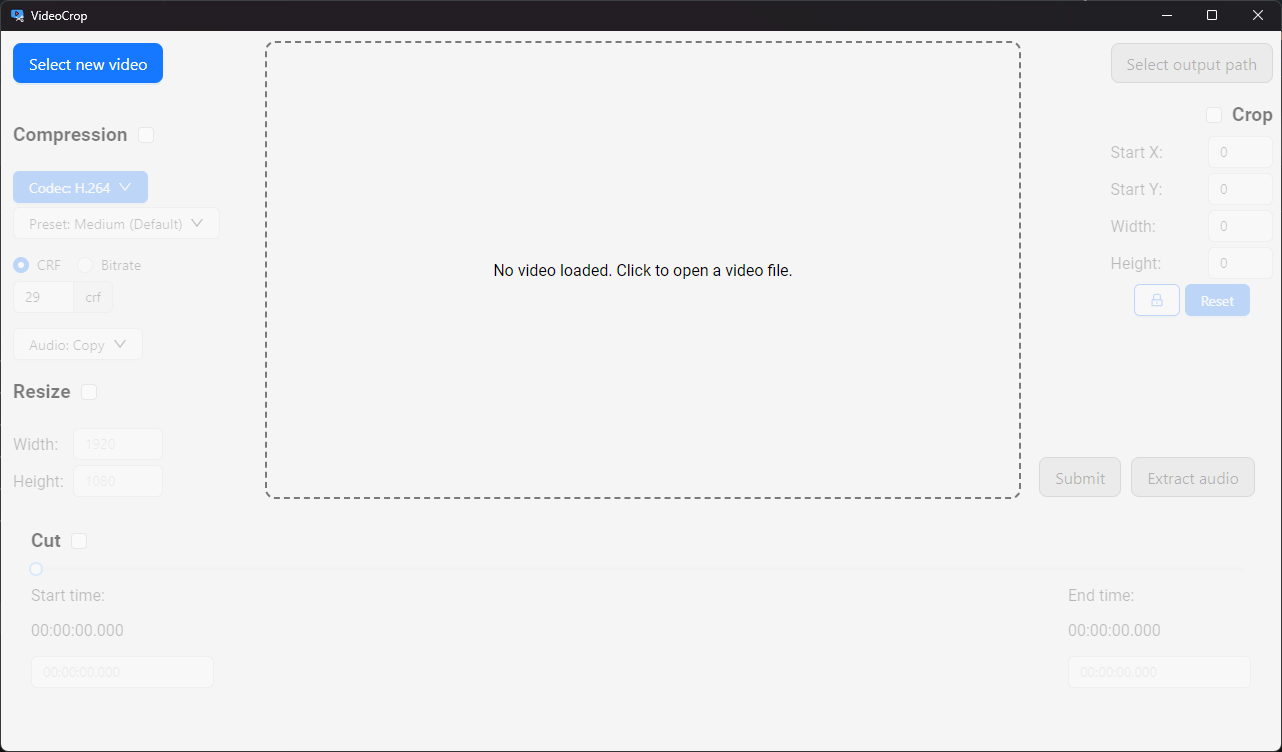
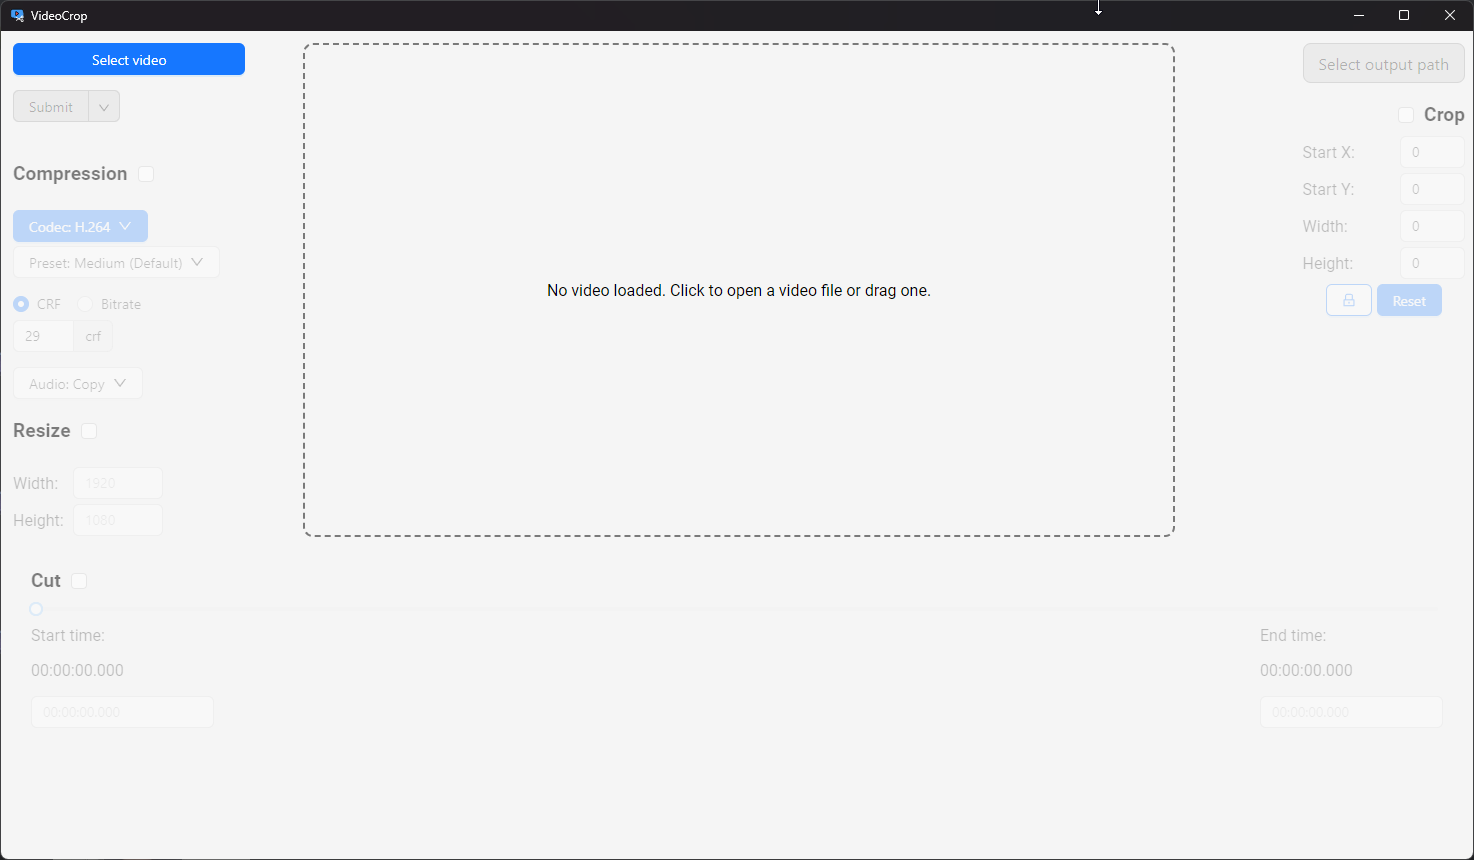
Squashed commit of the following:
commit aa211e035e66becc86f16a9393fbe4c1d225f195
Author: Azmek <68204002+Azmekk@users.noreply.github.com>
Date:   Mon Jan 6 03:07:28 2025 +0200

    Bugfixes and option to export video only

commit fda6e5756200cf527e0d9cf68af5ff19bbe108c8
Merge: 282013c d8df016
Author: Azmek <68204002+Azmekk@users.noreply.github.com>
Date:   Sun Jan 5 05:03:13 2025 +0200

    Merge branch 'master' into release

commit 282013c9700b29a82d5b64c78f4d733eda6c684e
Author: Azmek <68204002+Azmekk@users.noreply.github.com>
Date:   Sun Jan 5 03:48:49 2025 +0200

    Test versioning change for updates

diff --git a/src/App.tsx b/src/App.tsx
@@ -1,7 +1,7 @@
 import { useEffect, useState } from "react";
 import { invoke } from "@tauri-apps/api/core";
 import VideoView from "./components/VideoView";
-import { Button, Modal, Progress } from "antd";
+import { Button, Dropdown, type MenuProps, Modal, Progress } from "antd";
 import CutSegment from "./components/CutSegment";
 import CropSegment from "./components/CropSegment";
 import type { DependenciesSetUpInfo, VideoCropPoints, VideoEditOptions, VideoEditProgress, VideoInfo } from "./Logic/Interfaces";
@@ -15,6 +15,7 @@ import { platform } from "@tauri-apps/plugin-os";
 import { event } from "@tauri-apps/api";
 import type { UnlistenFn } from "@tauri-apps/api/event";
 import { check } from "@tauri-apps/plugin-updater";
+import { DownOutlined } from "@ant-design/icons";
 
 function App() {
   const [ffmpegExists, setFfmpegExists] = useState(true);
@@ -26,8 +27,8 @@ function App() {
   const [updatingApp, setUpdatingApp] = useState(false);
   const [draggedVideoPath, setDraggedVideoPath] = useState("");
 
-  const [processingVideo, setProcessingVideo] = useState(false);
-  const [processingAudio, setProcessingAudio] = useState(false);
+  const [selectedSubmitDropdownType, setSelectedSubmitDropdownType] = useState("default");
+  const [processingSubmission, setProcessingSubmission] = useState(false);
   const [processingProgress, setProcessingProgress] = useState(0);
 
   const [cropPointPositions, setCropPointPositions] = useState<VideoCropPoints>(initiateVideoCropPoints());
@@ -118,10 +119,18 @@ function App() {
     }
   }
 
-  async function submitVideo() {
-    await invoke("submit_video_for_editing", { options: videoEditOptions });
+  async function submitForProcessing() {
+    if (selectedSubmitDropdownType === "audio") {
+      await submitAudioOnly();
+    } else {
+      await submitVideo();
+    }
+  }
 
-    setProcessingVideo(true);
+  async function submitVideo() {
+    await invoke("submit_video_for_editing", { options: videoEditOptions, processAudio: selectedSubmitDropdownType !== "video" });
+
+    setProcessingSubmission(true);
     setProcessingProgress(0);
 
     while (true) {
@@ -129,7 +138,7 @@ function App() {
       const newVideoInfo = await invoke<VideoEditProgress>("get_video_progress_info");
 
       if (newVideoInfo.last_error) {
-        setProcessingVideo(false);
+        setProcessingSubmission(false);
         setProcessingProgress(0);
 
         alert(`Something went wrong: ${newVideoInfo.last_error}`);
@@ -144,12 +153,12 @@ function App() {
         setProcessingProgress(100);
         await new Promise((resolve) => setTimeout(resolve, 300));
 
-        setProcessingVideo(false);
+        setProcessingSubmission(false);
         setProcessingProgress(0);
       }
 
       if (!newVideoInfo.working) {
-        setProcessingVideo(false);
+        setProcessingSubmission(false);
         setProcessingProgress(0);
         break;
       }
@@ -158,10 +167,10 @@ function App() {
     }
   }
 
-  async function submitAudio() {
+  async function submitAudioOnly() {
     await invoke("submit_audio_extraction", { options: videoEditOptions });
 
-    setProcessingAudio(true);
+    setProcessingSubmission(true);
     setProcessingProgress(0);
 
     while (true) {
@@ -170,7 +179,7 @@ function App() {
       const newVideoInfo = await invoke<VideoEditProgress>("get_video_progress_info");
 
       if (newVideoInfo.last_error) {
-        setProcessingAudio(false);
+        setProcessingSubmission(false);
         setProcessingProgress(0);
 
         alert(`Something went wrong: ${newVideoInfo.last_error}`);
@@ -185,12 +194,12 @@ function App() {
         setProcessingProgress(100);
         await new Promise((resolve) => setTimeout(resolve, 300));
 
-        setProcessingAudio(false);
+        setProcessingSubmission(false);
         setProcessingProgress(0);
       }
 
       if (!newVideoInfo.working) {
-        setProcessingAudio(false);
+        setProcessingSubmission(false);
         setProcessingProgress(0);
         break;
       }
@@ -234,7 +243,6 @@ function App() {
         });
 
         console.log("update installed");
-        relaunch();
       }
     } catch (error) {
       alert(`Error while updating: ${error}`);
@@ -321,6 +329,33 @@ function App() {
     };
   }, []);
 
+  const codecDropdownItems: { key: string; label: string }[] = [
+    {
+      key: "default",
+      label: "Submit",
+    },
+    {
+      key: "audio",
+      label: "Audio Only",
+    },
+    {
+      key: "video",
+      label: "Video Only",
+    },
+  ];
+
+  const handleProcessingDropdownMenuSelection: MenuProps["onClick"] = (e) => {
+    setSelectedSubmitDropdownType(e.key);
+  };
+
+  const selectedSubmitDropdownTypeProps: MenuProps = {
+    items: codecDropdownItems,
+    onClick: handleProcessingDropdownMenuSelection,
+    selectable: true,
+    selectedKeys: [selectedSubmitDropdownType],
+    defaultSelectedKeys: ["libx264"],
+  };
+
   return (
     <div>
       {!ffmpegExists && (
@@ -337,13 +372,16 @@ function App() {
       )}
       {draggedVideoPath !== "" && <div className="dragged-file-blur">{draggedVideoPath === "invalid" ? <div className="dragged-file-invalid">Invalid file</div> : draggedVideoPath}</div>}
       {interactingWithPaths && <div className="app-disabled">Please select path or cancel selection before continuing.</div>}
-      <main className={`app-container ${(processingVideo || processingAudio) && "disabled"} `}>
+      <main className={`app-container ${processingSubmission && "disabled"} `}>
         <div className="general-video-options-container">
           <div style={{ width: "20%", display: "flex", flexDirection: "column", gap: "20px" }}>
-            <div style={{ marginBottom: "20px" }}>
-              <Button size="large" onClick={getVideoPath} type="primary">
-                Select new video
+            <div style={{ display: "flex", flexDirection: "column", gap: "15px", marginBottom: "20px", maxWidth: "80%" }}>
+              <Button onClick={getVideoPath} type="primary">
+                {videoPathIsValid(videoEditOptions.input_video_path) ? "Change video" : "Select video"}
               </Button>
+              <Dropdown.Button onClick={submitForProcessing} icon={<DownOutlined />} disabled={videoEditOptions.output_video_path === ""} menu={selectedSubmitDropdownTypeProps}>
+                {codecDropdownItems.find((item) => item.key === selectedSubmitDropdownType)?.label}
+              </Dropdown.Button>
             </div>
             <CompressSegment
               onChange={(x, enabled) => setvideoEditOptions({ ...videoEditOptions, compression_enabled: enabled, compression_options: x })}
@@ -380,15 +418,6 @@ function App() {
                   onChange={(x) => setvideoEditOptions({ ...videoEditOptions, crop_options: x })}
                 />
               </div>
-
-              <div style={{ width: "100%", display: "flex", gap: "10px", alignItems: "end", justifyContent: "center", height: "100%" }}>
-                <Button loading={processingVideo} onClick={submitVideo} size="large" type="primary" disabled={videoEditOptions.output_video_path === ""}>
-                  Submit
-                </Button>
-                <Button loading={processingAudio} onClick={submitAudio} size="large" type="primary" disabled={videoEditOptions.output_video_path === ""}>
-                  Extract audio
-                </Button>
-              </div>
             </div>
           </CropPointsContext.Provider>
         </div>
@@ -401,7 +430,7 @@ function App() {
           />
         </div>
       </main>
-      <div style={{ padding: "5px" }}>{(processingVideo || processingAudio) && <Progress percent={processingProgress} status="active" />}</div>
+      <div style={{ padding: "5px" }}>{processingSubmission && <Progress percent={processingProgress} status="active" />}</div>
       <Modal
         title="Update available. Would you like to update?"
         open={updateAvailable}
@@ -419,6 +448,3 @@ function App() {
 }
 
 export default App;
-function relaunch() {
-  throw new Error("Function not implemented.");
-}

diff --git a/src/components/VideoView.tsx b/src/components/VideoView.tsx
@@ -27,13 +27,13 @@ function VideoView(props: VideoViewProps) {
     canvasLineDisplacementRef.left = 1;
     canvasLineDisplacementRef.right = 1;
     canvasLineDisplacementRef.top = 1;
-    redrawCanvas();
-  }, [resetCropPoints]);
+    updateCanvasSize();
+  }, [resetCropPoints, props.videoPath, props.videoInfo]);
 
   useEffect(() => {
     cropLinesUnlockedRef.current = cropLinesUnlocked;
-    redrawCanvas();
-  }, [cropLinesUnlocked]);
+    updateCanvasSize();
+  }, [cropLinesUnlocked, cropEnabled]);
 
   useEffect(() => {
     if (!clickedLineInfo.clickedLine && videoRef.current) {
@@ -156,6 +156,7 @@ function VideoView(props: VideoViewProps) {
     canvasLineDisplacementRef.left = 1;
     canvasLineDisplacementRef.right = 1;
     canvasLineDisplacementRef.top = 1;
+    updateCanvasSize();
 
     if (videoRef.current) {
       videoRef.current.addEventListener("loadedmetadata", updateCanvasSize);

diff --git a/src-tauri/src/utils/ffmpeg_utils.rs b/src-tauri/src/utils/ffmpeg_utils.rs
@@ -225,7 +225,7 @@ pub fn get_video_length_in_seconds(video_path: &str) -> Result<f64, String> {
     Ok(duration)
 }
 
-pub fn process_video(options: VideoEditOptions) {
+pub fn process_video(options: VideoEditOptions, process_audio: bool) {
     let mut progress = VIDEO_EDIT_PROGRESS.lock().unwrap();
     progress.working = true;
     progress.progress = 0.0;
@@ -263,19 +263,10 @@ pub fn process_video(options: VideoEditOptions) {
         ffmpeg_args.extend_from_slice(&["-vf".to_string(), crop_filter]);
     }
 
+    let compression_options = &options.compression_options;
     if options.compression_enabled {
-        let compression_options = &options.compression_options;
         ffmpeg_args.extend_from_slice(&["-c:v".to_string(), compression_options.codec.clone()]);
         ffmpeg_args.extend_from_slice(&["-preset".to_string(), compression_options.preset.clone()]);
-        ffmpeg_args
-            .extend_from_slice(&["-c:a".to_string(), compression_options.audio_codec.clone()]);
-
-        if compression_options.audio_codec != "copy" {
-            ffmpeg_args.extend_from_slice(&[
-                "-b:a".to_string(),
-                format!("{}k", compression_options.audio_bitrate),
-            ]);
-        }
 
         if compression_options.using_crf {
             ffmpeg_args
@@ -285,6 +276,24 @@ pub fn process_video(options: VideoEditOptions) {
                 "-b:v".to_string(),
                 format!("{}{}", compression_options.bitrate.to_string(), "k"),
             ]);
+        }
+    }
+
+    if !process_audio {
+        ffmpeg_args.extend_from_slice(&["-an".to_string()]);
+    } else if options.compression_enabled {
+        ffmpeg_args
+            .extend_from_slice(&["-c:a".to_string(), compression_options.audio_codec.clone()]);
+
+        if compression_options.audio_codec != "copy" {
+            if compression_options.audio_bitrate == 0 {
+                ffmpeg_args.extend_from_slice(&["-q:a".to_string(), "0".to_string()]);
+            } else {
+                ffmpeg_args.extend_from_slice(&[
+                    "-b:a".to_string(),
+                    format!("{}k", compression_options.audio_bitrate),
+                ]);
+            }
         }
     }
 

diff --git a/src-tauri/src/handlers/ffmpeg_handlers.rs b/src-tauri/src/handlers/ffmpeg_handlers.rs
@@ -45,11 +45,11 @@ pub fn get_video_info(video_path: &str) -> Result<VideoInfo, String> {
 }
 
 #[tauri::command]
-pub fn submit_video_for_editing(options: VideoEditOptions) {
+pub fn submit_video_for_editing(options: VideoEditOptions, process_audio: bool) {
     ffmpeg_utils::clear_video_progress();
 
     thread::spawn(move || {
-        ffmpeg_utils::process_video(options.clone());
+        ffmpeg_utils::process_video(options.clone(), process_audio);
     });
 }
 

diff --git a/src-tauri/src/lib.rs b/src-tauri/src/lib.rs
@@ -1,6 +1,3 @@
-use tauri::http::uri;
-use tauri_plugin_updater::UpdaterExt;
-
 mod handlers;
 mod utils;
 
